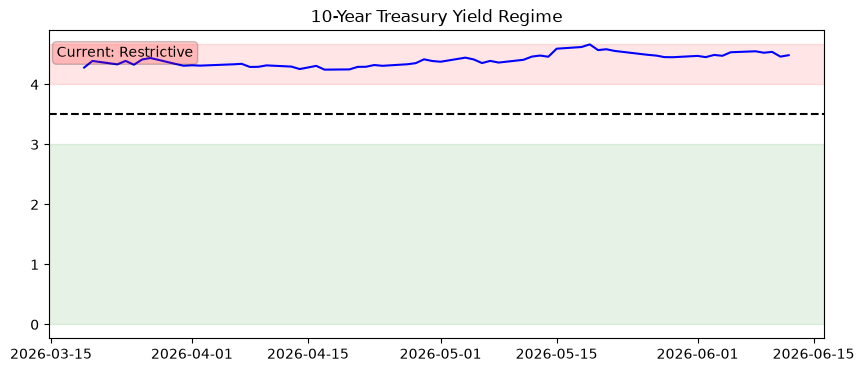
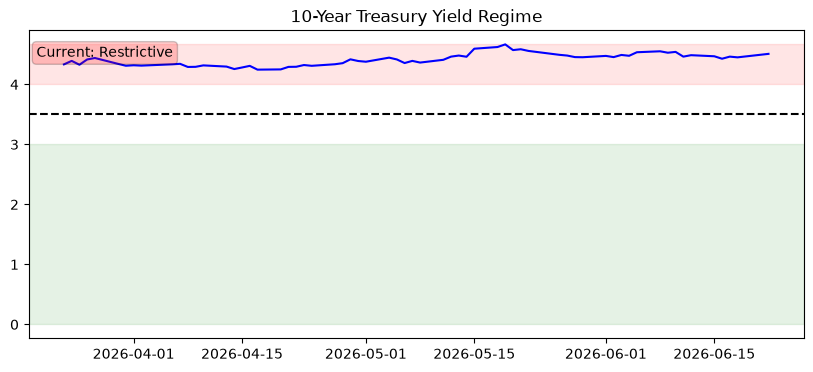
Update market summary

diff --git a/README.md b/README.md
@@ -5,7 +5,7 @@
 
 **🟢 Recovery**  
 **Score:** Downturn 0/3 | Recovery 3/3  
-**Last Updated:** 2026-06-19
+**Last Updated:** 2026-06-22
 
 ---
 
@@ -24,16 +24,16 @@ Seek out the information you need for your future self!
 ## AI Risk Commentary
 
 **Risk commentary:**  
-Market risk looks moderate but constructive. The regime remains in **Recovery**, with equities trending above key moving averages and volatility contained. Higher long rates still keep pressure on valuation-sensitive assets, but the current setup is stable enough to support risk-taking while staying selective.
+The market remains in a **Recovery** regime, with equities holding above key moving averages and volatility still contained. Risk appetite is supported, but elevated yields and a clear bond-income advantage keep the backdrop from being fully risk-on.
 
-- **SPY trend:** **746.74 vs 200-day MA 688.36** — above trend, bullish/recovering.
-- **QQQ trend:** **740.62 vs 100-day MA 647.34** — strong momentum remains intact.
-- **VIX:** **16.4** — subdued volatility, consistent with a calmer risk backdrop.
-- **TNX / yields:** **10Y yield 4.49%** — still elevated, offering competition to equities and keeping duration risk relevant.
-- **Income spread:** **SP dividend yield 1.24% vs 10Y 4.49% = -3.25% spread** — this **favors bonds over equities** on income alone.
-- **Mortgage rate:** **6.47%**, **Condition: Neutral** — housing-related stress is not worsening; conditions appear **stable**.
-- **OVX:** **51.54, low regime** — oil volatility is low, helping keep broader inflation risk contained.
-- **ARKK:** **+15.97% over 3 months** — risk appetite is improving in growth/speculative assets.
+- **SPY trend:** SPY is at **746.74** vs its **200-day MA of 688.36**, so the longer-term trend remains constructive.
+- **QQQ trend:** QQQ is at **740.62** vs its **100-day MA of 647.34**, confirming ongoing strength in growth stocks.
+- **Volatility:** **VIX at 16.78** signals moderate, controlled risk; conditions are **stable**.
+- **Yield context:** **TNX is 4.51%**, keeping rate pressure in the background even as equities advance.
+- **Mortgage:** **Mortgage rate is 6.47%**, with a **Neutral** condition; this is **stable**.
+- **Income spread:** **S&P dividend yield 1.01% vs 10Y yield 4.46%** gives a **-3.45% spread**.
+- **Income preference:** The income spread **favors bonds over equities**.
+- **Additional risk note:** **OVX at 51.54** remains in a **low** regime, and **ARKK +15.97% over 3 months** shows improving risk appetite.
 
 Raw data is available in **/data**.
 
